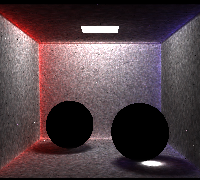
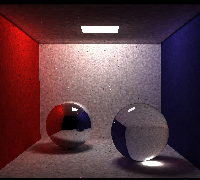
more fiddling

diff --git a/src/photon_map.rs b/src/photon_map.rs
@@ -80,7 +80,7 @@ fn random_in_hemisphere(normal: Vec4d) -> Vec4d {
       continue;
     }
     let result = Vec4d::vector(x, y, z);
-    if result.dot(normal) > 0.01 {
+    if result.dot(normal) > 0.1 {
       return result;
     }
   }
@@ -102,42 +102,58 @@ impl<Selector: PhotonSelector> PhotonMap<Selector> {
     let mut bounces: usize = 0;
     let mut max_bounces: usize = 0;
     let mut paths = 0;
+    let mut actual_paths = 0;
     let start = std::time::Instant::now();
     while paths < target_photon_count {
       'photon_loop: for sample in &virtual_lights {
-        paths += 1;
         let mut light_dir = {
-          let mut x;
-          let mut y;
-          let mut z;
+          if false {
+            let mut x;
+            let mut y;
+            let mut z;
 
-          loop {
-            x = random(-1.0, 1.0);
-            y = random(-1.0, 1.0);
-            z = random(-1.0, 1.0);
-            if (x * x + y * y + z * z) <= 1.0 {
-              break;
+            loop {
+              x = random(-1.0, 1.0);
+              y = random(-1.0, 1.0);
+              z = random(-1.0, 1.0);
+              if (x * x + y * y + z * z) <= 1.0 {
+                break;
+              }
             }
-          }
 
-          Vec4d::vector(x, y, z).normalize() // this is a super awful/biased random, but whatever
+            Vec4d::vector(x, y, z).normalize() // this is a super awful/biased random, but whatever
+          } else {
+            let u = random(0.0, 1.0);
+            let v = 2.0 * 3.14127 * random(0.0, 1.0);
+            Vec4d::vector(v.cos() * u.sqrt(), -(1.0 - u).sqrt(), v.sin() * u.sqrt())
+          }
         };
 
         if sample.direction.is_none() || light_dir.dot(sample.direction.unwrap()) < 0.01 {
           continue 'photon_loop;
         }
 
+        paths += 1;
+        actual_paths += 1;
+
         let mut throughput = Colour::RGB(1.0, 1.0, 1.0);
         let mut photon_ray = Ray::new(sample.position + light_dir * 0.01, light_dir, None);
-        let mut photon_colour = Colour::from(sample.emission) * Colour::from(sample.diffuse);
+        let mut photon_colour = Colour::from(sample.emission) * (5.);
+
         let mut path_length: usize = 0;
-        'photon_bounce_loop: while path_length < 16 {
+        let mut recorded = false;
+        'photon_bounce_loop: while path_length < 64 {
           let current_colour = photon_colour;
           bounces += 1;
           path_length += 1;
           max_bounces = max_bounces.max(path_length);
           let (c, shadable) = match scene.intersect(&photon_ray) {
-            None => continue 'photon_loop,
+            None => {
+              if !recorded {
+                actual_paths += 1;
+              }
+              continue 'photon_loop;
+            }
             Some(x) => x,
           };
 
@@ -196,24 +212,26 @@ impl<Selector: PhotonSelector> PhotonMap<Selector> {
             ));
           };
           let (next_ray, next_colour) = next.unwrap();
-          let path_mode = selector.record_mode(&surface, bounces);
+          let path_mode = selector.record_mode(&surface, path_length);
           let recorded_photon = if path_mode.should_record() {
+            if !recorded {
+              actual_paths += 1;
+              recorded = true;
+            }
+
             photons.push(Photon {
               colour: current_colour,
               position: fragment.position,
-              direction: next_ray.direction,
+              direction: photon_ray.direction,
             });
             true
           } else {
             false
           };
           if path_mode.should_terminate() {
-            if recorded_photon == false {
-              // photon_count -= 1;
-            }
             continue 'photon_loop;
           }
-          if (recorded_photon == false) {
+          if true || !recorded_photon {
             // Now we know the colour and direction of the next bounce, let's decide if we're keeping it.
             throughput = throughput * next_colour;
             let p = random(0.0, 1.0);
@@ -229,7 +247,7 @@ impl<Selector: PhotonSelector> PhotonMap<Selector> {
       }
     }
     for i in 0..photons.len() {
-      photons[i].colour = photons[i].colour * (1.0 / photons.len() as f64);
+      photons[i].colour = photons[i].colour * (1.0 / actual_paths as f64);
     }
     let end = std::time::Instant::now();
 
@@ -259,7 +277,7 @@ impl<Selector: PhotonSelector> PhotonMap<Selector> {
     let mut result = Vec4d::new();
     let (photons, radius) = self.tree.nearest(surface.position, photon_samples);
     let mut max_radius: f64 = 0.0;
-    let radius_cutoff = 0.1;
+    let radius_cutoff = 0.25;
     for (photon, distance) in &photons {
       if let Some(contribution) = self
         .selector
@@ -269,8 +287,8 @@ impl<Selector: PhotonSelector> PhotonMap<Selector> {
           continue;
         }
         max_radius = max_radius.max(*distance);
-        result =
-          result + Vec4d::from(photon.colour) * contribution * ((radius_cutoff - distance).max(0.0) / radius_cutoff);
+        let weight = (-photon.direction.dot(surface.normal)).max(0.0); //* (radius_cutoff - distance).max(0.0) / radius_cutoff;
+        result = result + Vec4d::from(photon.colour) * contribution * weight;
       }
     }
     return Colour::from(result) * (1.0 / max_radius / max_radius / 3.1412);
@@ -278,11 +296,13 @@ impl<Selector: PhotonSelector> PhotonMap<Selector> {
 }
 
 #[derive(Debug, Clone)]
-pub struct DiffuseSelector {}
+pub struct DiffuseSelector {
+  include_first_bounce: bool,
+}
 
 impl DiffuseSelector {
-  pub fn new() -> DiffuseSelector {
-    DiffuseSelector {}
+  pub fn new(include_first_bounce: bool) -> DiffuseSelector {
+    DiffuseSelector { include_first_bounce }
   }
 }
 
@@ -300,7 +320,11 @@ fn is_specular(surface: &MaterialCollisionInfo) -> bool {
 
 impl PhotonSelector for DiffuseSelector {
   fn record_mode(&self, surface: &MaterialCollisionInfo, depth: usize) -> RecordMode {
-    if depth > 2 {
+    // if depth == 1 && is_specular(surface) {
+    //   return RecordMode::TerminatePath;
+    // }
+
+    if depth > 1 || self.include_first_bounce {
       if is_specular(surface) {
         return RecordMode::DontRecord;
       }

diff --git a/src/scene.rs b/src/scene.rs
@@ -47,6 +47,7 @@ pub struct SceneSettings {
   pub height: usize,
   pub samples_per_pixel: usize,
   pub photon_count: usize,
+  pub use_direct_lighting: bool,
 }
 
 impl SceneSettings {
@@ -63,6 +64,7 @@ impl SceneSettings {
       photon_samples: 0,
       samples_per_pixel: 4,
       photon_count: 0,
+      use_direct_lighting: false,
     };
   }
 }
@@ -119,7 +121,7 @@ impl Scene {
   }
 
   fn rebuild_photon_map(&mut self, max_elements_per_leaf: usize) {
-    let diffuse_selector = DiffuseSelector::new();
+    let diffuse_selector = DiffuseSelector::new(!self.settings.use_direct_lighting);
     self.diffuse_photon_map = Some(PhotonMap::new(
       &diffuse_selector,
       self,
@@ -127,7 +129,12 @@ impl Scene {
       max_elements_per_leaf,
     ));
     let caustic_selector = CausticSelector::new();
-    self.caustic_photon_map = Some(PhotonMap::new(&caustic_selector, self, 2000, max_elements_per_leaf));
+    self.caustic_photon_map = Some(PhotonMap::new(
+      &caustic_selector,
+      self,
+      self.settings.photon_count / 2,
+      max_elements_per_leaf,
+    ));
   }
 
   pub fn get_texture_coordinate(&self, idx: usize) -> Vec2d {
@@ -145,7 +152,7 @@ impl Scene {
     return &self.textures[idx];
   }
 
-  fn intersect_ray(&self, ray: &Ray, lights: &Vec<Vec4d>, photon_samples: usize, depth: usize) -> Vec4d {
+  fn intersect_ray(&self, ray: &Ray, lights: &Vec<LightSample>, photon_samples: usize, depth: usize) -> Vec4d {
     if depth > 10 {
       return Vec4d::vector(1.0, 1.0, 1.0);
     }
@@ -165,61 +172,64 @@ impl Scene {
           return Vec4d::from(c);
         }
 
-        let mut colour = Vec4d::new();
+        let mut colour;
         let ambient_light = {
           let diffuse = match &self.diffuse_photon_map {
             None => Colour::RGB(0.0, 0.0, 0.0),
             Some(photon_map) => (photon_map.lighting(&surface, photon_samples)),
           };
-          // let caustic = match &self.caustic_photon_map {
-          //   None => Colour::RGB(0.0, 0.0, 0.0),
-          //   Some(photon_map) => (photon_map.lighting(&surface, photon_samples)),
-          // };
-          (diffuse) //+ caustic)
+          let caustic = match &self.caustic_photon_map {
+            None => Colour::RGB(0.0, 0.0, 0.0),
+            Some(photon_map) => (photon_map.lighting(&surface, photon_samples)),
+          };
+          (diffuse + caustic)
         };
-        return Vec4d::from(ambient_light);
+
         if true {
           let mut remaining_weight = 1.0;
+          let mut secondaries_colour = Vec4d::new();
           for (ray, secondary_colour, weight) in &surface.secondaries {
             if remaining_weight <= 0.0 {
               break;
             }
             remaining_weight -= weight;
-            colour = colour
+            secondaries_colour = secondaries_colour
               + Vec4d::from(
                 Colour::from(self.intersect_ray(ray, lights, photon_samples, depth + 1)) * *secondary_colour * *weight,
               );
           }
-          let diffuse_colour = diffuse_colour * remaining_weight;
-          colour = Vec4d::from(Colour::from(diffuse_colour) * ambient_light); //Vec4d::from(ambient_light); //colour + Vec4d::from(surface.diffuse_colour * remaining_weight * ambient_colour);
-          if true || diffuse_colour.length() <= 0.01 {
+          colour = secondaries_colour;
+          let mut direct_lighting = Vec4d::new();
+          diffuse_colour = diffuse_colour * remaining_weight;
+          if diffuse_colour.length() <= 0.01 {
             return colour;
           }
-          let light_samples = 8;
-          let mut has_intersected = false;
-          for i in 0..light_samples {
-            let light = &lights[thread_rng().gen_range(0, lights.len())];
-            let mut ldir = *light - surface.position;
-            let ldir_len = ldir.dot(ldir).sqrt();
-            ldir = ldir.normalize();
-            if i * 2 < light_samples || has_intersected {
-              let shadow_test = Ray::new_bound(surface.position, ldir, 0.01 * ldir_len, ldir_len * 0.999, None);
 
-              if self.intersect(&shadow_test).is_some() {
-                has_intersected = true;
+          if self.settings.use_direct_lighting && false {
+            let light_samples = 8;
+            let mut has_intersected = false;
+            for i in 0..light_samples {
+              let light = &lights[thread_rng().gen_range(0, lights.len())];
+              let mut ldir = light.position - surface.position;
+              let ldir_len = ldir.dot(ldir).sqrt();
+              ldir = ldir.normalize();
+              if i * 2 < light_samples || has_intersected {
+                let shadow_test = Ray::new_bound(surface.position, ldir, 0.01 * ldir_len, ldir_len * 0.999, None);
+                if self.intersect(&shadow_test).is_some() {
+                  has_intersected = true;
+                  continue;
+                }
+              }
+              let diffuse_intensity = ldir.dot(surface.normal) / light_samples as f64;
+              if diffuse_intensity <= 0.0 {
                 continue;
               }
+              direct_lighting = direct_lighting + light.diffuse * diffuse_intensity;
             }
-            let diffuse_intensity = ldir.dot(surface.normal) / light_samples as f64;
-            if diffuse_intensity <= 0.0 || true {
-              continue;
-            }
-
-            colour = colour + diffuse_colour * diffuse_intensity;
           }
+          colour = colour + Vec4d::from(Colour::from(diffuse_colour) * (Colour::from(direct_lighting) + ambient_light));
         } else {
           colour = diffuse_colour;
-          // Vec4d::vector(diffuse_colour.x, 1. - c.distance.log10() / 2., 0.0); // ambient_colour + diffuse_colour;
         }
         return colour;
       }
@@ -278,7 +288,7 @@ impl Scene {
     }
     let rays = camera.get_rays(width, height);
 
-    let lights = self.get_light_samples(10000).iter().map(|l| l.position).collect();
+    let lights = self.get_light_samples(10000);
     println!("photon samples: {}", photon_samples);
     let iteration_count = 1;
     for _ in 0..iteration_count {

diff --git a/src/main.rs b/src/main.rs
@@ -114,6 +114,9 @@ fn load_settings() -> SceneSettings {
     }
     _ => {}
   }
+  if matches.is_present("use_direct_lighting") {
+    settings.use_direct_lighting = true;
+  }
   return settings;
 }
 
